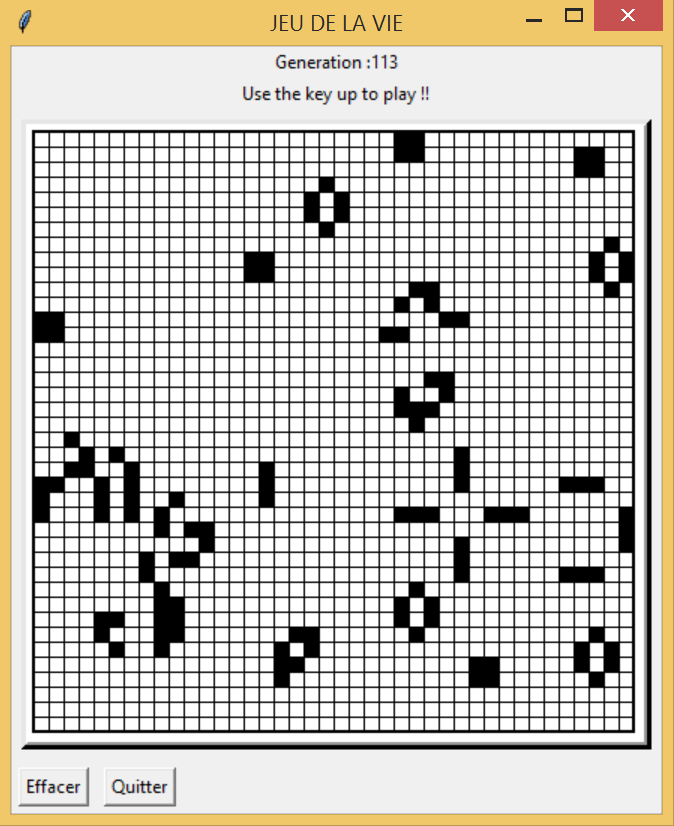
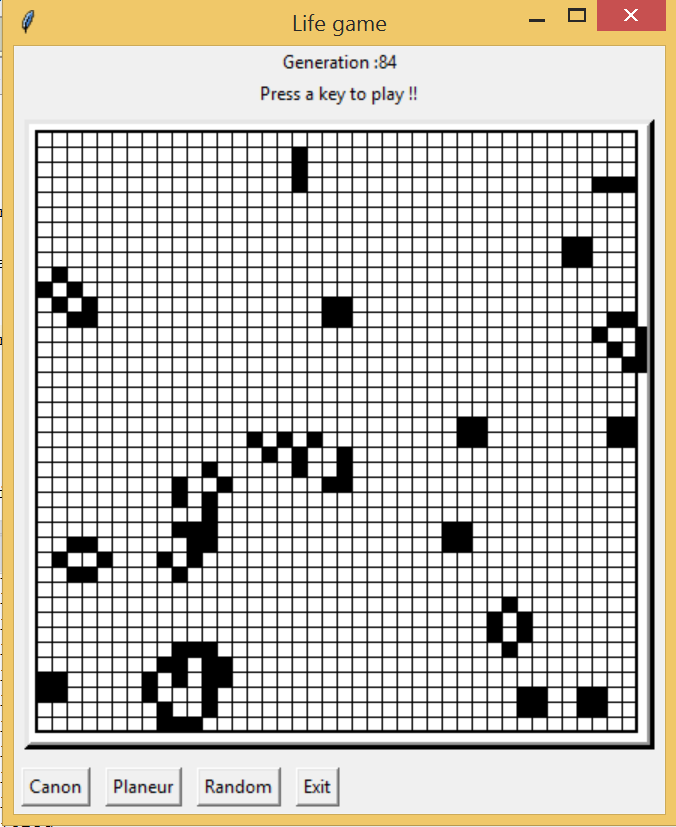
Add some buttons in order to generate famous figures as glitcher and cannon

diff --git a/Jeu_de_la_vie_Canvas.py b/Jeu_de_la_vie_Canvas.py
@@ -5,6 +5,7 @@ Verdun
 """
 # -*- coding: utf-8 -*-
 
+
 """
 Le jeu se déroule sur une grille à deux dimensions.
 À chaque étape, l’évolution d’une cellule est entièrement déterminée par l’état de ses huit voisines de la façon suivante :
@@ -36,6 +37,44 @@ length_grid = 410 #length of the grid (10 + length)
 length_square = 10 #length of a square
 Lx = width_grid//length_square #number of square across the width
 Ly = length_grid//length_square #number of square across the length
+
+def generate_symbole(figure_name = "canon"):
+    """
+    Return an array including the figure.
+    """
+    if figure_name == "planeur": #PLANNEUR
+        planneur = np.zeros((3, 3))
+        planneur[1, 0] = 1
+        planneur[0, 1] = 1
+        planneur[0, 2] = 1
+        planneur[1, 2] = 1
+        planneur[2, 2] = 1
+        return planneur
+    elif figure_name == "canon": #CANON
+        canon = np.zeros((36,9))
+        canon[0:2,5:7] = 1
+        canon[11,4:7] = 1
+        canon[15:17,4:7] = 1
+        canon[12,3] = 1
+        canon[14,3] = 1
+        canon[13,2] = 1
+        canon[12,7] = 1
+        canon[14,7] = 1
+        canon[13,8] = 1
+        canon[25,0:2] = 1
+        canon[22:25,1:3] = 1
+        canon[21,2:5] = 1
+        canon[24,3] = 1
+        canon[22:25,4:6] = 1
+        canon[25,5:7] = 1
+        canon[30,1:3] = 1
+        canon[34:36,3:5] = 1
+        return canon
+    else:
+        return 0
+
+
+
 
 class ZoneAffichage(Canvas):
     """
@@ -80,6 +119,11 @@ class FenPrincipale(Tk):
         self.__zoneAffichage = ZoneAffichage(self)
         self.__zoneAffichage.pack(padx = 5,pady=5)
 
+        # figures Button : allow you to choose the figure you want to plot, restart the game
+        self.__boutonCanon = Button(self, text='Cannon', command=self.canon).pack(side=LEFT, padx=5, pady=5)
+        self.__boutonPlanneur = Button(self, text='Planeur', command=self.planeur).pack(side=LEFT, padx=5, pady=5)
+        self.__boutonRandom = Button(self, text='Random', command=self.random).pack(side=LEFT, padx=5, pady=5)
+
         # delete Button : allows you to exit the game
         self.__boutonQuitter = Button(self, text='Exit', command=self.destroy).pack(side=LEFT, padx=5, pady=5)
         # display the grid
@@ -87,6 +131,20 @@ class FenPrincipale(Tk):
         # connect the keyboard to the graphical interface and keep ready to run the method jeu_de_la_vie
         self.focus_set()
         self.bind("<Key>", self.jeu_de_la_vie)
+
+        self.__figure = "random"
+
+    def canon(self):
+        self.__figure = "canon"
+        self.restart("canon")
+
+    def planeur(self):
+        self.__figure = "planeur"
+        self.restart("planeur")
+
+    def random(self):
+        self.__figure = "random"
+        self.restart("random")
 
     def get_generation(self):
         """
@@ -99,6 +157,30 @@ class FenPrincipale(Tk):
         Modified the variable generation
         """
         self.__generation = gene
+
+    def restart(self,figure = "random"):
+        """
+        Initialize the different variables in order to start a new game.
+        """
+        if figure == "canon" or figure == "planeur":
+            self.__grid = np.zeros((Lx,Ly))
+            if figure == "canon" :
+                if Lx < 40 or Ly < 12:
+                    return self.restart("random")
+                figure_grid = generate_symbole(figure)#3x3
+                self.__grid[Lx//2-18:Lx//2+18,Ly//2-4:Ly//2+5] = figure_grid
+            elif  figure == "planeur" :
+                if Lx < 5 or Ly < 5:
+                    return self.restart("random")
+                figure_grid = generate_symbole(figure)#36x9
+                self.__grid[Lx//2-1:Lx//2+2,Ly//2-1:Ly//2+2] = figure_grid
+        else:
+            # random initialization of the grid
+            self.__grid = np.random.randint(0, 2, (Lx, Ly))
+        # initialization of the generation (number of move) and the displayed text showing this variable
+        self.__generation = 1
+        self.__text_generation.config(text="Generation : {}".format(self.__generation))
+        self.display_round()
 
     def sum_living_cell(self,x, y, current_round):
         """

diff --git a/README.md b/README.md
@@ -7,12 +7,15 @@ This code allows you to create a grid with black and white squares, randomly def
 This project has been implemented after the discovery of the game and has no other goal than trying it.
 
 
+The game allows you to generate a random grid, with both alive and dead units. You can also choose different interesting figures as the "gliders" or the "cannon" (which generate gliders).
+
+
 ## Game demonstration
 
 
-You can see examples of the game with 2 different grids (40x40 and 80x80).
+You can see examples of the game with the random mode and the cannon.
 
 
 ![Life game 40x40](jeu_de_la_vie_40x40.PNG)
 
-![Life game 80x80](jeu_de_la_vie_80x80.PNG)
+![Cannon demonstration](cannon_demonstration.PNG)
